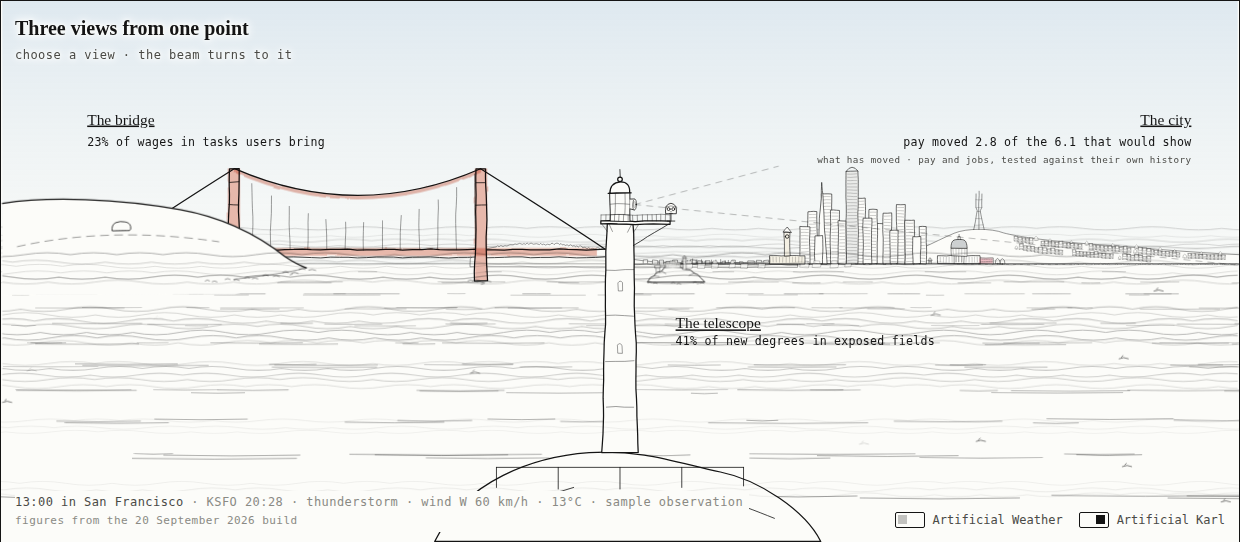
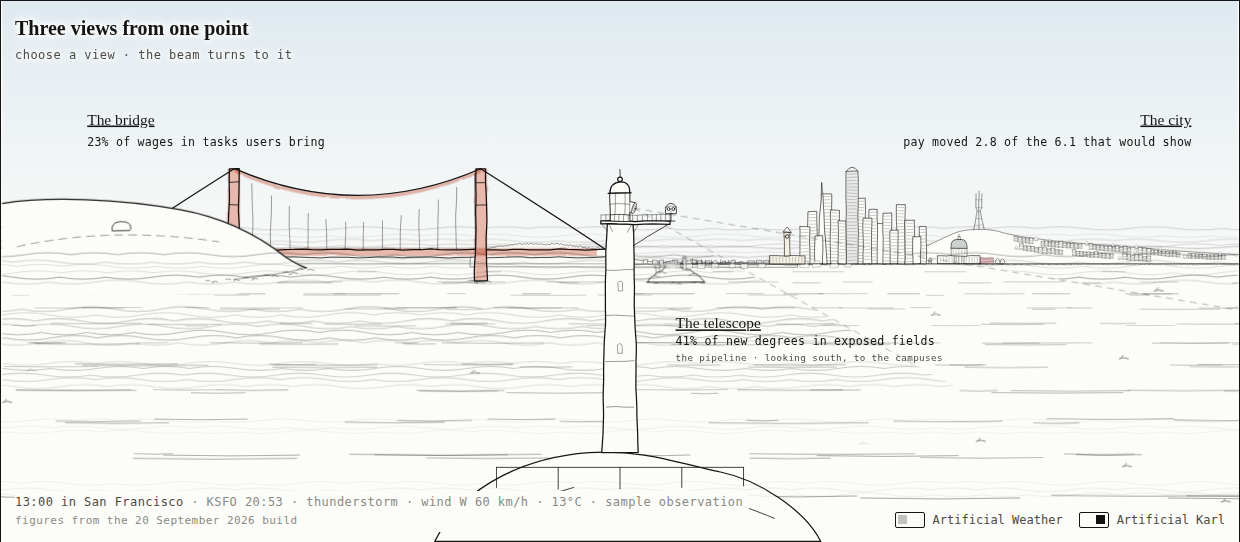
Mockup: cloud deck in rain, rocket splits lengthwise, crown splash, BART with stops at the point
Overcast, rain and storm close the sky with a drifting deck placed per view, with scud and low cloud below it and no stars or moon through it. A failing rocket loses its flame, cracks from the nose and splits in two halves along the crack. The splash is a crown that rises, breaks into drops and falls back, and through the telescope a failure comes down behind the hills with smoke instead of a splash. The two-car train at the point is now a six-car BART that stops at Embarcadero, Montgomery, Civic Center and 16th Street.

diff --git a/docs/mockup/index.html b/docs/mockup/index.html
@@ -92,6 +92,9 @@ header.top{display:flex;align-items:baseline;justify-content:space-between;gap:1
 @keyframes drift{from{transform:translateX(0)}to{transform:translateX(-180px)}}
 @keyframes cdrift{from{transform:translateX(1900px)}to{transform:translateX(-500px)}}
 .cloud{animation:cdrift var(--cdrift,1440s) linear infinite;animation-direction:var(--dir,normal)}
+/* the deck of a rainy day repeats every 600 units, so it can drift one period and start again without a seam */
+@keyframes deckdrift{from{transform:translateX(0)}to{transform:translateX(-600px)}}
+.deck{animation:deckdrift var(--ddrift,900s) linear infinite;animation-direction:var(--dir,normal)}
 .rain{animation:fall var(--rfall,1.1s) linear infinite}
 .rain.near{animation-duration:calc(var(--rfall,1.1s)*.7)}
 @keyframes fall{from{transform:translateY(-40px)}to{transform:translateY(40px)}}
@@ -211,7 +214,7 @@ header.top{display:flex;align-items:baseline;justify-content:space-between;gap:1
 .src b{color:var(--ink);font-weight:500}
 .coin .close{margin-top:12px;font-family:var(--mono);font-size:12px;background:transparent;border:1px solid var(--ink);color:var(--ink);padding:5px 12px;cursor:pointer}
 
-@media (prefers-reduced-motion: reduce){.fogline,.cloud,.rain,.water,.crest,.crownblock,.bart{animation:none}.stage>svg,.zoom,.viewer,.beam,.mask-in{transition:none}}
+@media (prefers-reduced-motion: reduce){.fogline,.cloud,.deck,.rain,.water,.crest,.crownblock,.bart{animation:none}.stage>svg,.zoom,.viewer,.beam,.mask-in{transition:none}}
 @media (max-width:820px){
   /* On a phone the drawing is a picture and the figures beneath it are the way in: the labels in the
      drawing go, the filters go, and the three views become three cards to tap. */
@@ -265,7 +268,7 @@ header.top{display:flex;align-items:baseline;justify-content:space-between;gap:1
     <svg class="pan" id="L-lights" viewBox="0 0 1600 700" aria-hidden="true"><g class="zoom"><g id="lights" class="scene"></g></g></svg>
     <svg class="pan" id="L-water" viewBox="0 0 1600 700" aria-hidden="true"><g class="zoom scene"><g id="skyfront" class="sky thin"></g><g id="water" class="hair"></g><g id="fog" class="fog" mask="url(#fogmask)"></g><g id="foam" class="hair"></g><g id="rainnear" class="sky thin"></g></g></svg>
     <!-- foreground: the point, the lighthouse, the railing, the viewer at rest -->
-    <svg id="L-life" viewBox="0 0 1600 700" aria-hidden="true"><defs><clipPath id="behind-hills"><path clip-rule="evenodd" d="M0 0 H1600 V700 H0 Z M 1400 700 L 1400 314 L 1500 320 L 1600 329 L 1600 700 Z"/></clipPath><clipPath id="behind-foothills"><path clip-rule="evenodd" d="M0 0 H1600 V700 H0 Z M 780 700 L 780 262 C 850 236, 930 230, 1000 244 C 1050 254, 1090 256, 1130 262 L 1130 700 Z"/></clipPath></defs><g id="life" class="life scene"></g></svg>
+    <svg id="L-life" viewBox="0 0 1600 700" aria-hidden="true"><defs><clipPath id="sf-portal"><rect x="1004" y="300" width="700" height="60"/></clipPath><clipPath id="behind-hills"><path clip-rule="evenodd" d="M0 0 H1600 V700 H0 Z M 1400 700 L 1400 314 L 1500 320 L 1600 329 L 1600 700 Z"/></clipPath><clipPath id="behind-foothills"><path clip-rule="evenodd" d="M0 0 H1600 V700 H0 Z M 780 700 L 780 262 C 850 236, 930 230, 1000 244 C 1050 254, 1090 256, 1130 262 L 1130 700 Z"/></clipPath></defs><g id="life" class="life scene"></g></svg>
     <svg class="fg" id="L-fg" viewBox="0 0 1600 700" role="group" aria-label="An ink drawing of a lighthouse on a headland. Turn to the city or the bridge, or raise the coin telescope to look at the valley.">
       <g class="zoom" id="fgzoom"><g id="fg" class="scene">
         <path d="M560 700 C 600 620, 690 590, 760 585 C 830 580, 880 600, 930 610 C 980 620, 1040 660, 1060 700 Z" style="fill:var(--paper)"/>
@@ -892,7 +895,7 @@ header.top{display:flex;align-items:baseline;justify-content:space-between;gap:1
   function go(view){
     clearTimeout(timer);
     stage.dataset.view = view;
-    $("#life").replaceChildren(); $("#lifeback").replaceChildren(); taxiUntil = 0; rocketUntil = 0; ferryUntil = 0; bartRun++;                               // whatever was crossing the last view stays there
+    $("#life").replaceChildren(); $("#lifeback").replaceChildren(); taxiUntil = 0; rocketUntil = 0; ferryUntil = 0; sfTrainUntil = 0; bartRun++;                               // whatever was crossing the last view stays there
     beam.classList.add("moving"); clearTimeout(beamTimer); beamTimer = setTimeout(()=>beam.classList.remove("moving"), 1450);
     stage.classList.add("fogout"); clearTimeout(fogTimers[0]); clearTimeout(fogTimers[1]);
     fogTimers[0] = setTimeout(()=>stage.classList.add("turning"), 260);
@@ -1083,17 +1086,46 @@ header.top{display:flex;align-items:baseline;justify-content:space-between;gap:1
     document.querySelectorAll(".fog").forEach(g=>{ g.style.opacity = Math.max(w.fog, .4); });
     sky.innerHTML = ""; skyFront.innerHTML = ""; celes.innerHTML = ""; $("#rainnear").innerHTML = "";
     const r = rng(w.clouds*13+7), clock = Date.now()/1000;
+    // overcast, rain and storm close the sky with a deck: a grey sheet across the top with a lumpy underside, lower and darker as
+    // the weather worsens, and the other cloud keeps below it. With Artificial Weather off none of this is drawn.
+    const heavy = stage.dataset.aw === "off" ? 0 : Math.min(3, ({overcast:1, rain:2, storm:3}[key] || 0) + (rainLevel > 1 && key === "rain" ? 1 : 0));
+    // placed by where it falls on screen in this view, so a turned view, zoomed in on the lower sky, still has its deck across the top
+    const sy = v => toScene(view, 800, v)[1], base = sy([0, 84, 96, 104][heavy]);
     // most cloud is behind the land and the bridge; one in four passes in front of them
     // cloud keeps to two bands: high, above the labels, and low, along the horizon behind the land
-    for (let i=0;i<w.clouds*3;i++){ const y = i % 3 === 2 ? 236 + r()*52 : 66 + r()*24, wd = 80 + r()*140, front = !w.streak && i % 4 === 3;
+    for (let i=0;i<w.clouds*3 + heavy*4;i++){ const y = heavy ? sy(200 + r()*84) : i % 3 === 2 ? 236 + r()*52 : 66 + r()*24, wd = 80 + r()*140, front = !w.streak && i % 4 === 3;
       const d = w.streak ? `M0 ${y} q ${wd*.5} -6 ${wd} 0 M20 ${y+8} q ${wd*.3} -4 ${wd*.6} 0` : `M0 ${y} q ${wd*.2} -18 ${wd*.45} -6 q ${wd*.15} -16 ${wd*.35} -2 q ${wd*.2} -4 ${wd*.2} 8 Z`;
       const c = el("path", {d, class:"cloud"}, front ? skyFront : sky); if (!w.streak) c.style.fill = "var(--paper)";
       const own = cross*(.8 + r()*.4); c.style.animationDuration = own.toFixed(0) + "s"; c.style.animationDelay = (-(((clock/own) + r()) % 1)*own).toFixed(1) + "s"; }
-    if (w.band) for (let y=90; y<104; y+=10) el("path", {d:`M 0 ${y} L ${W} ${y}`, class:"hair"}, sky);
+    if (w.band && !heavy) for (let y=90; y<104; y+=10) el("path", {d:`M 0 ${y} L ${W} ${y}`, class:"hair"}, sky);
+    if (heavy){ const rd = rng(heavy*31 + 5), P = 600, pts = [];
+      // one period of the underside: lobes of uneven width hanging from the base, their joins a little higher; the same period repeats
+      for (let x = 0; x < P - 24; x += 22 + Math.pow(rd(), 1.6)*120) pts.push([x, base - rd()*8]);
+      const lobes = pts.map(([x], i) => ((i + 1 < pts.length ? pts[i+1][0] : P) - x)*(.14 + rd()*.14));
+      let edge = "";
+      for (let rep = -1; rep < 5; rep++) pts.forEach(([x, y], i) => { const nx = i + 1 < pts.length ? pts[i+1][0] : P, ny = i + 1 < pts.length ? pts[i+1][1] : pts[0][1], ox = rep*P;
+        edge += `${edge ? "" : "M " + (ox + x) + " " + y} C ${(ox + x + (nx - x)*.1).toFixed(1)} ${(y + lobes[i]*1.3).toFixed(1)}, ${(ox + nx - (nx - x)*.1).toFixed(1)} ${(ny + lobes[i]*1.3).toFixed(1)}, ${ox + nx} ${ny}`; });
+      const deck = el("g", {class:"deck"}, sky);
+      const shape = `M -600 -400 L -600 ${pts[0][1]} L ${edge.slice(2)} L 3000 -400 Z`;
+      el("path", {d:shape, style:"fill:var(--paper);stroke:none"}, deck);
+      el("path", {d:shape, style:`fill:var(--ink);stroke:none;opacity:${[0, .05, .12, .19][heavy]}`}, deck);
+      el("path", {d:edge}, deck);
+      // inside the deck, a fold above some of the lobes and a few longer seams, drawn thin and broken, so it reads as a thick sheet
+      let folds = "";
+      for (let rep = -1; rep < 5; rep++) pts.forEach(([x, y], i) => { const nx = i + 1 < pts.length ? pts[i+1][0] : P, ox = rep*P, wd = nx - x;
+        if ((i*7 + 3) % 5 < 2) folds += ` M ${(ox + x + wd*.2).toFixed(1)} ${(y - 6).toFixed(1)} q ${(wd*.3).toFixed(1)} ${(lobes[i]*.9).toFixed(1)} ${(wd*.6).toFixed(1)} 0`;
+        if ((i*5 + 1) % 7 === 0) folds += ` M ${(ox + x).toFixed(1)} ${(y - 24 - (i % 3)*9).toFixed(1)} q ${(wd*.7).toFixed(1)} 5 ${(wd*1.6).toFixed(1)} -2`; });
+      el("path", {d:folds, class:"hair", style:"opacity:.6"}, deck);
+      document.documentElement.style.setProperty("--ddrift", (cross*.6).toFixed(0) + "s");
+      // under the deck in rain and storm, torn scud runs lower and faster than the rest
+      for (let i=0;i<heavy*5 - 3;i++){ const y = sy(214 + r()*60), wd = 40 + r()*70; let d = `M 0 ${y}`;
+        for (let x = 0; x < wd; x += 6 + r()*8) d += ` L ${(x + 3).toFixed(1)} ${(y - 3 - r()*7).toFixed(1)} L ${(x + 6).toFixed(1)} ${(y - r()*2).toFixed(1)}`;
+        const c = el("path", {d: d + ` L ${wd} ${y} Q ${wd*.5} ${y + 4} 0 ${y} Z`, class:"cloud hair", style:`fill:var(--paper);fill-opacity:.9`}, sky);
+        const own = cross*(.35 + r()*.2); c.style.animationDuration = own.toFixed(0) + "s"; c.style.animationDelay = (-(((clock/own) + r()) % 1)*own).toFixed(1) + "s"; } }
     const rainN = [0, 220, 560][Math.max(w.rain, rainLevel)];
     if (rainN){ const slant = -lateral * 0.35;
       const far = el("g", {class:"rain"}, sky), near = el("g", {class:"rain near"}, $("#rainnear"));
-      for (let i=0;i<rainN;i++){ const x = r()*W, y = 60 + r()*272; el("path", {d:`M${x} ${y} l ${slant*.7} 7`, class:"hair"}, far); }        // above the horizon only
+      for (let i=0;i<rainN;i++){ const x = r()*W, y = (heavy ? base : 60) + r()*(332 - (heavy ? base : 60)); el("path", {d:`M${x} ${y} l ${slant*.7} 7`, class:"hair"}, far); }        // above the horizon only
       for (let i=0;i<rainN*.35;i++){ const x = r()*W, y = 40 + r()*640; el("path", {d:`M${x} ${y} l ${slant*1.3} 13`, class:"hair"}, near); } }
     document.querySelectorAll(".gull").forEach(p=>{ p.style.transform = `rotate(${lateral > 20 ? 14 : lateral < -20 ? -14 : 0}deg)`; p.style.transformOrigin = "center"; });
     // the day's light
@@ -1108,12 +1140,12 @@ header.top{display:flex;align-items:baseline;justify-content:space-between;gap:1
     if (sunAt){ const [x, y] = sunAt;
       el("path", {d:`M ${x} ${y} m -22 0 a 22 22 0 1 0 44 0 a 22 22 0 1 0 -44 0 M ${x} ${y-34} l 0 -10 M ${x} ${y+34} l 0 10 M ${x-34} ${y} l -10 0 M ${x+34} ${y} l 10 0`, class:"thin sun", style:"fill:var(--paper)"}, celes);
     }
-    if (night){ const rs = rng(Math.floor(Date.now()/86400e3)); const n = 4 + Math.floor(rs()*2);
+    if (night && !heavy){ const rs = rng(Math.floor(Date.now()/86400e3)); const n = 4 + Math.floor(rs()*2);
       for (let i=0;i<n;i++){ const x = 480 + rs()*1080, y = 30 + rs()*62, sz = 2 + rs()*1.6;
         const st = el("path", {d:`M ${x} ${y-sz*2} L ${x+sz*.45} ${y-sz*.45} L ${x+sz*2} ${y} L ${x+sz*.45} ${y+sz*.45} L ${x} ${y+sz*2} L ${x-sz*.45} ${y+sz*.45} L ${x-sz*2} ${y} L ${x-sz*.45} ${y-sz*.45} Z`, class:"star", style:"fill:var(--ink);stroke:none;filter:url(#soft)"}, celes); st.dataset.x = x; st.dataset.y = y;
         st.style.animationDuration = (5 + rs()*7).toFixed(1) + "s"; st.style.animationDelay = (-rs()*10).toFixed(1) + "s"; } }
     // the moon is drawn at its phase and where it is; on a night it has set, the drawing keeps it low over the horizon anyway
-    const moonAt = ((moon.alt > 0 || night) && (night || sun.alt < 4) && w.fog < .9) ? inFrame(view, xOfAzimuth(moon.alt > 0 ? moon.az : (moon.az + 180) % 360), yOfAltitude(Math.max(moon.alt, night ? 16 : 0)), 20) : null;
+    const moonAt = ((moon.alt > 0 || night) && (night || sun.alt < 4) && w.fog < .9 && !heavy) ? inFrame(view, xOfAzimuth(moon.alt > 0 ? moon.az : (moon.az + 180) % 360), yOfAltitude(Math.max(moon.alt, night ? 16 : 0)), 20) : null;
     if (moonAt){
       const [x, y] = moonAt, g = el("g", {class:"moon thin"}, celes);
       // the lit side: a lens between the limb and the terminator, phase 0 new, .5 full. After dark the lit
@@ -1160,15 +1192,45 @@ header.top{display:flex;align-items:baseline;justify-content:space-between;gap:1
       for (let i=0;i<5;i++){ const x = stern - 4 - i*(8 + r()*4), y = wl + (i % 2)*2.2 + r()*1.2; d += ` M ${x.toFixed(1)} ${y.toFixed(1)} q ${-3 - r()} ${(-1.8 - r()).toFixed(1)} ${(-6.5 - r()*2).toFixed(1)} 0`; }
       d += ` M ${bow - 8} ${wl + .5} L ${stern + 4} ${wl + .5}`;                                   // the line where hull meets water, broken a little
       p.setAttribute("d", d); }; }
-  function splashAt(x, y, sc = 1, ms = 1800){
-    const g = el("g", {class:"thin"}, life); let flow = 1;
-    const arcs = []; for (let i=0;i<10;i++) arcs.push(el("path", {d:""}, g));
-    const ring = el("path", {d:"", class:"hair"}, g);
-    const draw = () => arcs.forEach((a, i) => { const side = i % 2 ? 1 : -1, n = i >> 1, h = (6 + n*3.5)*(.8 + Math.random()*.4)*flow*sc, r = (4 + n*3)*(.85 + Math.random()*.3)*(.4 + .6*flow)*sc;
-      a.setAttribute("d", `M ${x} ${y} q ${(side*r*.45).toFixed(1)} ${(-h).toFixed(1)} ${(side*r).toFixed(1)} ${(1.5*sc).toFixed(1)} M ${(x + side*(r + Math.random()*2)).toFixed(1)} ${(y + 2).toFixed(1)} l ${(side*Math.random()*1.5).toFixed(1)} ${(1.5 + Math.random()*2).toFixed(1)}`); });
-    const t = setInterval(draw, 100); draw();
-    tween(ms, k=>{ flow = Math.max(0, 1 - k*1.05); ring.setAttribute("d", `M ${x - (10 + k*26)*sc} ${y + 2} q ${(10 + k*26)*sc} ${-3*sc} ${(20 + k*52)*sc} 0`); ring.style.opacity = 1 - k; }, ()=>{ clearInterval(t); g.remove(); }); }
-  let bartRun = 0, taxiUntil = 0, bearUp = false, rocketUntil = 0, whaleUp = 0, lastPad = 0, ferryUntil = 0;        // one robotaxi on the road at a time; one bear
+  function splashAt(x, y, sc = 1, ms = 2600){
+    // a crown of water thrown up and outward, drops arcing off it and falling back in, each making its own small ring,
+    // and two rings spreading from where it went in; the crown rises for a third of a second and collapses back
+    const g = el("g", {class:"thin"}, life), crown = el("path", {d:"", "stroke-linecap":"round"}, g), drops = el("path", {d:"", class:"hair"}, g), pits = el("path", {d:"", class:"hair"}, g), rings = el("path", {d:"", class:"hair"}, g);
+    const G = 320*sc, ps = [];
+    for (let i=0;i<26;i++){ const side = i % 2 ? 1 : -1, up = 80 + Math.random()*95;
+      ps.push({ x0: x + side*(3 + Math.random()*6)*sc, t0: Math.random()*.28, vx: side*(10 + Math.random()*60)*sc, vy: -up*sc*(i < 6 ? 1.15 : .85), at: null }); }
+    const ell = (r, op) => r > 0 ? `M ${(x - r).toFixed(1)} ${(y + 1.5).toFixed(1)} a ${r.toFixed(1)} ${(r*.14).toFixed(1)} 0 1 0 ${(2*r).toFixed(1)} 0 a ${r.toFixed(1)} ${(r*.14).toFixed(1)} 0 1 0 ${(-2*r).toFixed(1)} 0` : "";
+    tween(ms, k=>{ const t = k*ms/1000;
+      // the crown: a cup of water seen from the side, its two walls flaring out from a wide foot, the near edge of its rim drawn
+      // across the top; it rises, then its walls lean out, break into beads and sink back
+      const rise = t < 1.2 ? Math.sin(Math.PI*Math.min(1, t/1.2)) : 0, H = 24*sc*rise, b = (7 + 8*Math.min(1, t/1))*sc, fl = (4 + 10*Math.min(1, t/.9))*sc, rim = b + fl;
+      const broken = Math.max(0, (t - .45)/.6);
+      crown.style.strokeDasharray = broken > 0 ? `${(6*(1 - broken) + 1).toFixed(1)} ${(1 + broken*3).toFixed(1)}` : "";
+      let c = "";
+      if (H > .6){
+        // each wall goes up from the foot and bends out at the top, like a tulip, and its top edge is torn into spikes, a bead on each
+        for (const s of [-1, 1]){
+          c += ` M ${(x + s*b).toFixed(1)} ${(y + 1).toFixed(1)} C ${(x + s*b*.95).toFixed(1)} ${(y - H*.5).toFixed(1)}, ${(x + s*rim*.8).toFixed(1)} ${(y - H*.75).toFixed(1)}, ${(x + s*rim).toFixed(1)} ${(y - H).toFixed(1)}`;
+          c += ` M ${(x + s*b*.55).toFixed(1)} ${(y + 1).toFixed(1)} C ${(x + s*b*.5).toFixed(1)} ${(y - H*.45).toFixed(1)}, ${(x + s*rim*.55).toFixed(1)} ${(y - H*.8).toFixed(1)}, ${(x + s*rim*.62).toFixed(1)} ${(y - H*1.12).toFixed(1)}`; }
+        const tips = [-1, -.78, -.52, -.24, .06, .34, .6, .82, 1], sp = [5, 3, 6, 2.5, 5.5, 3, 6.5, 2.5, 4.5];
+        tips.forEach((f, j) => { const tx = x + f*rim*.98, ty = y - H - Math.sqrt(Math.max(0, 1 - f*f))*3*sc, len = sp[j]*sc*(.4 + .6*rise);
+          c += ` M ${(tx - f*1.2*sc).toFixed(1)} ${(ty + 2*sc).toFixed(1)} L ${(tx + f*1.5*sc).toFixed(1)} ${(ty - len).toFixed(1)}`;
+          c += ` M ${(tx + f*2*sc).toFixed(1)} ${(ty - len - 2*sc).toFixed(1)} l .01 .01`; }); }
+      // a low mound where it went in, then flat water
+      const m = t < 1.4 ? Math.sin(Math.PI*t/1.4)*3*sc : 0;
+      if (m > .3) c += ` M ${(x - b*1.6).toFixed(1)} ${(y + 1).toFixed(1)} q ${(b*1.6).toFixed(1)} ${(-m*2).toFixed(1)} ${(b*3.2).toFixed(1)} 0`;
+      crown.setAttribute("d", c);
+      let d = "", pd = "";
+      for (const p of ps){ const u = t - p.t0; if (u < 0) continue;
+        if (p.at == null){ const px = p.x0 + p.vx*u, py = y + p.vy*u + .5*G*u*u;
+          if (u > .05 && py >= y){ p.at = [px, t]; continue; }
+          const vx = p.vx, vy = p.vy + G*u, n = Math.hypot(vx, vy) || 1, l = 3.4*sc;
+          d += ` M ${px.toFixed(1)} ${py.toFixed(1)} l ${(-vx/n*l).toFixed(1)} ${(-vy/n*l).toFixed(1)}`; }
+        else { const q = (t - p.at[1])/.6; if (q < 1){ const rr = (1.2 + q*3)*sc; pd += ` M ${(p.at[0] - rr).toFixed(1)} ${(y + .8).toFixed(1)} q ${rr.toFixed(1)} ${(-rr*.35).toFixed(1)} ${(2*rr).toFixed(1)} 0`; } } }
+      drops.setAttribute("d", d); pits.setAttribute("d", pd);
+      rings.setAttribute("d", ell((10 + t*26)*sc) + " " + (t > .6 ? ell((6 + (t - .6)*22)*sc) : "")); rings.style.opacity = Math.max(0, 1 - k*1.05);
+    }, ()=>g.remove()); }
+  let sfTrainUntil = 0, bartRun = 0, taxiUntil = 0, bearUp = false, rocketUntil = 0, whaleUp = 0, lastPad = 0, ferryUntil = 0;        // one robotaxi on the road at a time; one bear
   const EVENTS = {
     gull(){ if (stage.classList.contains("night")) return; // one to three, each its own size, pace, bob and wingbeat
       const n = 1 + Math.floor(Math.random()*Math.random()*3), ltr = Math.random() < .5, y0 = 130 + Math.random()*140, dur = 12000 + Math.random()*10000;
@@ -1233,14 +1295,24 @@ header.top{display:flex;align-items:baseline;justify-content:space-between;gap:1
       const valley = view === "valley", far = $("#lifeback"), night = stage.classList.contains("night");
       let x0; do { x0 = valley ? 830 + Math.random()*270 : 1430 + Math.random()*150; } while ((valley && Math.abs(x0 - 930) < 40) || Math.abs(x0 - lastPad) < 40);
       lastPad = x0;
-      const y0 = valley ? 300 : 342, waterY = valley ? 430 : 376 + Math.random()*24;
+      // through the telescope the launch is behind the far hills, so a failure comes down behind them too: no splash, only smoke over the ridge
+      const y0 = valley ? 300 : 342, waterY = valley ? 296 : 376 + Math.random()*24;
+      const smoke = x => { const c = el("path", {d:"", filter:"url(#haze)", style:`fill:${night ? "#C9CCD0" : "#9A9FA6"};stroke:none;opacity:0`}, life);
+        tween(7000, k=>{ const h = 40 + Math.sqrt(k)*100, w = 10 + k*34, sway = Math.sin(k*3)*7;
+          c.setAttribute("d", `M ${x - 6} ${waterY} Q ${x - w + sway} ${waterY - h*.5} ${x + sway*1.5 - w*.4} ${waterY - h} Q ${x + sway*1.5} ${waterY - h - w*.6} ${x + sway*1.5 + w*.4} ${waterY - h} Q ${x + w + sway} ${waterY - h*.5} ${x + 6} ${waterY} Z`);
+          c.style.opacity = (.5*Math.min(1, k*4)*(1 - k)).toFixed(3); }, ()=>c.remove()); };
+      let smoked = false;
+      const land = (x, sc) => valley ? (smoked ? 0 : (smoked = true, smoke(x))) : splashAt(x, waterY, sc);
       const holder = el("g", valley ? {} : {"clip-path":"url(#above-horizon)"}, far), g = el("g", {class:"thin"}, holder), P = "fill:var(--paper)";
-      // the rocket in two halves, which is how it can come apart
-      const TOP = "M-3 -10 L -3 -20 Q 0 -30 3 -20 L 3 -10 L 1.5 -11.2 L 0 -9.8 L -1.5 -11.5 Z", BOT = "M-3 0 L -3 -10 L -1.5 -11.5 L 0 -9.8 L 1.5 -11.2 L 3 -10 L 3 0 Z M-3 -5 L -7 2 L -3 0 M 3 -5 L 7 2 L 3 0";
+      // the rocket in one outline; a failure can split it lengthwise, along a crack that wanders down from the nose
+      const WHOLE = "M-3 0 L -3 -20 Q 0 -30 3 -20 L 3 0 Z M-3 -5 L -7 2 L -3 0 M 3 -5 L 7 2 L 3 0 M -3 -11 L 3 -11";
+      const CRACK = [[0,-25],[.9,-22.6],[-.5,-19.8],[.8,-16.4],[-.9,-13],[.5,-9.6],[-.7,-6.2],[.6,-3],[0,0]], L_ = ([a, b]) => `L ${a} ${b}`;
+      const LEFT = `M 0 -25 Q -1.5 -25 -3 -20 L -3 0 ${CRACK.slice(0, -1).reverse().map(L_).join(" ")} Z M -3 -5 L -7 2 L -3 0`;
+      const RIGHT = `M 0 -25 ${CRACK.slice(1).map(L_).join(" ")} L 3 0 L 3 -20 Q 1.5 -25 0 -25 Z M 3 -5 L 7 2 L 3 0`;
       const plume = el("g", {class:"hair"}, g), flame = el("g", {}, g);
       el("path", {d:"M -2.6 1 Q -1.2 7 0 13 Q 1.2 7 2.6 1 Z", style:"fill:#F29A3A;stroke:none"}, flame);
       el("path", {d:"M -1.4 1 Q -.6 4.5 0 7.5 Q .6 4.5 1.4 1 Z", style:"fill:#D8352B;stroke:none"}, flame);
-      const top = el("path", {d:TOP, style:P}, g), bot = el("path", {d:BOT, style:P}, g);
+      const body = el("path", {d:WHOLE, style:P}, g);
       const puff = () => { if (plume.childElementCount < 40 && Math.random() < .6) el("path", {d:`M${((Math.random()-.5)*7).toFixed(1)} ${(8 + Math.random()*8).toFixed(1)} l 0 ${(6 + Math.random()*14).toFixed(1)}`}, plume); };
       const flick = (on, size = 1) => { flame.style.opacity = on ? 1 : 0; if (on) flame.setAttribute("transform", `scale(${(.9 + Math.random()*.2)*size},${(.8 + Math.random()*.45)*size})`); };
       const lean = (valley ? (Math.random() < .5 ? 1 : -1) : 1)*(.3 + Math.random()*.5), pace = .9 + Math.random()*.2;
@@ -1272,23 +1344,39 @@ header.top{display:flex;align-items:baseline;justify-content:space-between;gap:1
           if (t > apex && holder.parentNode !== life){ holder.removeAttribute("clip-path"); life.appendChild(holder); }
           const rot = -lean*4*Math.min(1, t/T) + lean*176*smooth((t - (apex - .5))/1.8);
           g.setAttribute("transform", `translate(${x.toFixed(2)},${y.toFixed(2)}) rotate(${rot.toFixed(2)})`);
-          if (t > apex && y >= waterY){ done = true; splashAt(x, waterY, valley ? .8 : .7); return end(); }
+          if (t > apex && y >= waterY){ done = true; land(x, 1.4); return end(); }
         } else {
-          // it comes apart in two: a crack, the halves spin away from each other, each falls into the bay on its own
-          if (!brokeAt && t >= T){ brokeAt = { x, y, t }; flame.remove(); plume.style.opacity = 0; holder.removeAttribute("clip-path"); life.appendChild(holder);
-            const pop = el("g", {class:"hair"}, holder); for (let i=0;i<6;i++){ const a = i/6*2*Math.PI; el("path", {d:`M ${(x + Math.cos(a)*4).toFixed(1)} ${(y - 10 + Math.sin(a)*4).toFixed(1)} l ${(Math.cos(a)*5).toFixed(1)} ${(Math.sin(a)*5).toFixed(1)}`}, pop); }
-            tween(700, k=>{ pop.style.opacity = 1 - k; }, ()=>pop.remove());
-            top.remove(); bot.remove(); g.setAttribute("transform", "");
-            const mk = (d, cy) => { const w = el("g", {}, holder); el("path", {d, style:P, transform:`translate(0,${-cy})`}, w); return w; };
-            pieces = [{ g:mk(TOP, -19), vx: 14 + Math.random()*6, vy: vb*.9, spin: 260, cy:-19, done:false },
-                      { g:mk(BOT, -5), vx: -10 - Math.random()*6, vy: vb*.6, spin: -190, cy:-5, done:false }]; }
-          if (!brokeAt){ flick(true); puff(); g.setAttribute("transform", `translate(${x.toFixed(2)},${y.toFixed(2)}) rotate(${(-lean*4*t/T).toFixed(2)})`); }
-          else { const dt = t - brokeAt.t; let left = 0;
+          // it fails in three beats: the engine cuts and the flame goes out; it coasts while a crack runs down it from the nose;
+          // then it splits lengthwise along the crack, the halves peel apart, turning away from each other, and each falls on its own
+          const SPLIT = .75;
+          if (t < T){ flick(true); puff(); g.setAttribute("transform", `translate(${x.toFixed(2)},${y.toFixed(2)}) rotate(${(-lean*4*t/T).toFixed(2)})`); }
+          else if (!brokeAt && t < T + SPLIT){ const dt = t - T;
+            if (!step.cut){ step.cut = true; flame.remove(); holder.removeAttribute("clip-path"); life.appendChild(holder); step.crack = el("path", {d:"", class:"hair"}, g); }
+            plume.style.opacity = Math.max(0, 1 - dt*3);
+            const n = Math.min(CRACK.length, Math.floor(Math.max(0, dt - .15)/(SPLIT - .2)*CRACK.length) + 1);
+            let cd = "M " + CRACK.slice(0, n).map(p=>p.join(" ")).join(" L ");
+            if (n > 3) cd += " M .8 -16.4 l 1.4 -1.8"; if (n > 5) cd += " M .5 -9.6 l -1.6 .9"; if (n > 7) cd += " M .6 -3 l 1.5 -.4";
+            step.crack.setAttribute("d", n > 1 ? cd : "");
+            g.setAttribute("transform", `translate(${x.toFixed(2)},${y.toFixed(2)}) rotate(${(-lean*4).toFixed(2)})`); }
+          else if (!brokeAt){ brokeAt = { x, y, t, vx: -lean*1.2*T }; plume.style.opacity = 0; body.remove(); step.crack.remove(); g.setAttribute("transform", "");
+            const vx0 = -lean*1.2*T, vy0 = vb - G*(t - T);
+            puffAt(x, y - 12, 0);
+            const mk = (d, cx) => { const w = el("g", {}, holder); el("path", {d, style:P, transform:`translate(${-cx},11)`}, w); return w; };
+            pieces = [{ g:mk(LEFT, -1.6), cx:-1.6, vx: vx0 - 7 - Math.random()*5, vy: vy0 + 3, spin: -(110 + Math.random()*70), rot:-lean*4, done:false },
+                      { g:mk(RIGHT, 1.6), cx: 1.6, vx: vx0 + 7 + Math.random()*5, vy: vy0 + 1, spin: 110 + Math.random()*70, rot:-lean*4, done:false }];
+            // a few small shards from along the crack
+            step.shards = [0,1,2,3].map(i => ({ p: el("path", {d:"M 0 0 l 1.2 -.8", class:"hair"}, holder), x: x + (i % 2 ? 1 : -1)*.5, y: y - 5 - i*4.5, vx: (i % 2 ? 1 : -1)*(10 + Math.random()*14) + vx0, vy: vy0 + 4 + Math.random()*8 }));
+          }
+          if (brokeAt){ const dt = t - brokeAt.t; let left = 0;
+            // the halves open slowly for the first moment, hinged at the tail, then tumble freely
+            const open = smooth(dt/.5);
             for (const pc of pieces){ if (pc.done) continue; left++;
-              const px = brokeAt.x + pc.vx*dt, py = brokeAt.y + pc.cy - (pc.vy*dt - .5*G*dt*dt);
-              pc.g.setAttribute("transform", `translate(${px.toFixed(2)},${py.toFixed(2)}) rotate(${(pc.spin*dt).toFixed(1)})`);
-              if (dt > .3 && py >= waterY){ pc.done = true; pc.g.remove(); splashAt(px, waterY, valley ? .6 : .5); } }
-            if (!left){ done = true; return end(); } }
+              const px = brokeAt.x + pc.cx + brokeAt.vx*dt + (pc.vx - brokeAt.vx)*dt*open, py = brokeAt.y - 11 - (pc.vy*dt - .5*G*dt*dt);
+              pc.g.setAttribute("transform", `translate(${px.toFixed(2)},${py.toFixed(2)}) rotate(${(pc.rot + pc.spin*dt*(.4 + .6*open)).toFixed(1)})`);
+              if (dt > .3 && py >= waterY){ pc.done = true; pc.g.remove(); land(px, 1.05); } }
+            for (const sh of step.shards || []){ if (!sh.p.isConnected) continue; const sx = sh.x + sh.vx*dt, sy = sh.y - (sh.vy*dt - .5*G*dt*dt);
+              if (sy > waterY){ sh.p.remove(); continue; } sh.p.setAttribute("transform", `translate(${sx.toFixed(1)},${sy.toFixed(1)}) rotate(${(dt*400).toFixed(0)})`); }
+            if (!left){ (step.shards || []).forEach(sh=>sh.p.remove()); done = true; return end(); } }
         }
         requestAnimationFrame(step); })(t0);
       return 13000; },
@@ -1384,12 +1472,38 @@ header.top{display:flex;align-items:baseline;justify-content:space-between;gap:1
       }, ()=>{ g.remove(); cp.remove(); whaleUp = Math.max(0, whaleUp - 1); });
       return dur; },
     boat(){ const view = stage.dataset.view; if (view !== "bridge" && view !== "home") return 0; (Math.random() < .5 && !stage.classList.contains("night") ? EVENTS.sail : EVENTS.cargo)(); return 9000; },
-    muni(){ if (stage.dataset.view !== "home") return 0;
-      const g = el("g", {class:"hair"}, life), P = "fill:var(--paper)", south = Math.random() < .7, dur = 26000 + Math.random()*10000;
-      for (let i=0;i<2;i++){ el("path", {d:`M ${i*10} 0 L ${i*10} -3.4 L ${i*10 + 9} -3.4 L ${i*10 + 9} 0 Z`, style:P}, g); el("path", {d:`M ${i*10 + 1.5} -2.3 l 6 0`}, g);
-        el("rect", {x:i*10 + 1.5, y:-2.8, width:6, height:1.1, class:"carlight", style:"fill:#F8DC8C;stroke:none"}, g); }
-      el("circle", {cx:south ? 19.5 : -.5, cy:-1.2, r:.8, class:"carlight lamp", style:"fill:#FFF6D2;stroke:none"}, g);
-      tween(dur, k=>{ const x = south ? 1014 + k*600 : 1614 - k*600; g.setAttribute("transform", `translate(${(x - 14).toFixed(1)},339.4) scale(1.45)`); }, ()=>g.remove());
+    bartsf(){ if (stage.dataset.view !== "home" || performance.now() < sfTrainUntil) return 0;
+      // BART along Market, seen from the point: six cars out of the Transbay Tube by the Ferry Building, stopping at Embarcadero,
+      // Montgomery, Civic Center and 16th Street Mission, then on down the peninsula past the right edge; or the same run northbound.
+      // Between stations it accelerates, runs and brakes, so the stops read as stops. The places are the drawing's own:
+      // the Ferry Building and City Hall are where the skyline has them, Montgomery halfway between, 16th Street a little south.
+      const STOPS = [cityX(1240), 1126, cityX(CH), 1306], TUBE = cityX(1240) - 12, OUT = 1650, VM = 80, A = 55, DWELL = 1.4, S = .95;
+      const N = 6, CL = 8, GAP = .8, L = N*CL + (N - 1)*GAP, half = L*S/2;
+      const south = Math.random() < .6, stops = south ? STOPS : [...STOPS].reverse();
+      const start = south ? TUBE - half - 70 : OUT, finish = south ? OUT : TUBE - half - 70;
+      const prof = (d, v0, v1) => { let vp = VM, da = (vp*vp - v0*v0)/(2*A), dd = (vp*vp - v1*v1)/(2*A);
+        if (da + dd > d){ vp = Math.sqrt((2*A*d + v0*v0 + v1*v1)/2); da = (vp*vp - v0*v0)/(2*A); dd = (vp*vp - v1*v1)/(2*A); }
+        const t1 = (vp - v0)/A, t2 = (d - da - dd)/vp, t3 = (vp - v1)/A;
+        return { T: t1 + t2 + t3, at: t => t < t1 ? v0*t + .5*A*t*t : t < t1 + t2 ? da + vp*(t - t1) : da + (d - da - dd) + (u => vp*u - .5*A*u*u)(Math.min(t - t1 - t2, t3)) }; };
+      const legs = []; let from = start, v0 = VM;
+      for (const x of [...stops, finish]){ const last = x === finish, pr = prof(Math.abs(x - from), v0, last ? VM : 0);
+        legs.push({ from, dir: Math.sign(x - from), T: pr.T, at: pr.at }); if (!last) legs.push({ from: x, dir: 0, T: DWELL, at: ()=>0 }); from = x; v0 = last ? VM : 0; }
+      const total = legs.reduce((a, l) => a + l.T, 0);
+      sfTrainUntil = performance.now() + total*1000 + 1000;
+      // it comes out of the tube at the waterfront, so it is clipped there; the clip sits on a still holder, the train moves inside it
+      const holder = el("g", {"clip-path":"url(#sf-portal)"}, life), g = el("g", {class:"hair"}, holder), P = "fill:var(--paper)";
+      for (let i=0;i<N;i++){ const x = i*(CL + GAP);
+        const d = i === 0 ? `M ${x} 0 L ${x + .5} -1.7 Q ${x + 1.1} -3 ${x + 2.6} -3 L ${x + CL} -3 L ${x + CL} 0 Z`
+                : i === N - 1 ? `M ${x} 0 L ${x} -3 L ${x + CL - 2.6} -3 Q ${x + CL - 1.1} -3 ${x + CL - .5} -1.7 L ${x + CL} 0 Z`
+                : `M ${x} 0 L ${x} -3 L ${x + CL} -3 L ${x + CL} 0 Z`;
+        el("path", {d, style:P}, g); el("path", {d:`M ${x + 1.6} -1.9 l ${CL - 3.2} 0`}, g);
+        el("rect", {x:x + 1.6, y:-2.4, width:CL - 3.2, height:1, class:"carlight", style:"fill:#F8DC8C;stroke:none"}, g); }
+      const head = south ? L - .3 : .3, tail = south ? .3 : L - .3;
+      el("circle", {cx:head, cy:-1, r:.7, class:"carlight lamp", style:"fill:#FFF6D2;stroke:none"}, g);
+      el("circle", {cx:tail, cy:-1, r:.55, class:"carlight", style:"fill:#D8352B;stroke:none"}, g);
+      tween(total*1000, k=>{ let t = k*total, i = 0; while (i < legs.length - 1 && t > legs[i].T){ t -= legs[i].T; i++; }
+        const lg = legs[i], xc = lg.from + lg.dir*lg.at(Math.min(t, lg.T));
+        g.setAttribute("transform", `translate(${(xc - half).toFixed(2)},339.4) scale(${S})`); }, ()=>holder.remove());
       return 0; },
     bart(){ if (stage.dataset.view !== "valley") return 0;
       // half the trains run left to right, half right to left, nose first either way
@@ -1466,7 +1580,7 @@ header.top{display:flex;align-items:baseline;justify-content:space-between;gap:1
      clocks alongside. Everything is cancelled and restarted when the view changes, and any error in one
      event is caught so the others carry on. */
   const PLAY = {
-    home:   { first:[["rocket", 9000], ["muni", 24000]],                                   features:["whale", "rocket", "boat"],  gap:[12000, 22000], ambient:[["gull", [18000, 34000]], ["plane", [26000, 48000]], ["muni", [30000, 55000]]] },
+    home:   { first:[["rocket", 9000], ["bartsf", 20000]],                                   features:["whale", "rocket", "boat"],  gap:[12000, 22000], ambient:[["gull", [18000, 34000]], ["plane", [26000, 48000]], ["bartsf", [30000, 50000]]] },
     city:   { first:[["robotaxi", 6000], ["cityferry", 24000]],          features:["robotaxi", "cityferry"],    gap:[14000, 24000], ambient:[["gull", [20000, 36000]], ["plane", [28000, 50000]]] },
     bridge: { first:[["boat", 2500], ["bear", 15000], ["whale", 30000]],  features:["bear", "whale", "boat"],     gap:[12000, 22000], ambient:[["gull", [18000, 34000]], ["plane", [30000, 55000]], ["zzz", [16000, 28000]]] },
     valley: { first:[["bart", 1500], ["rocket", 13000]],                  features:["bart", "rocket", "bart"],   gap:[5000, 11000],  ambient:[] },
